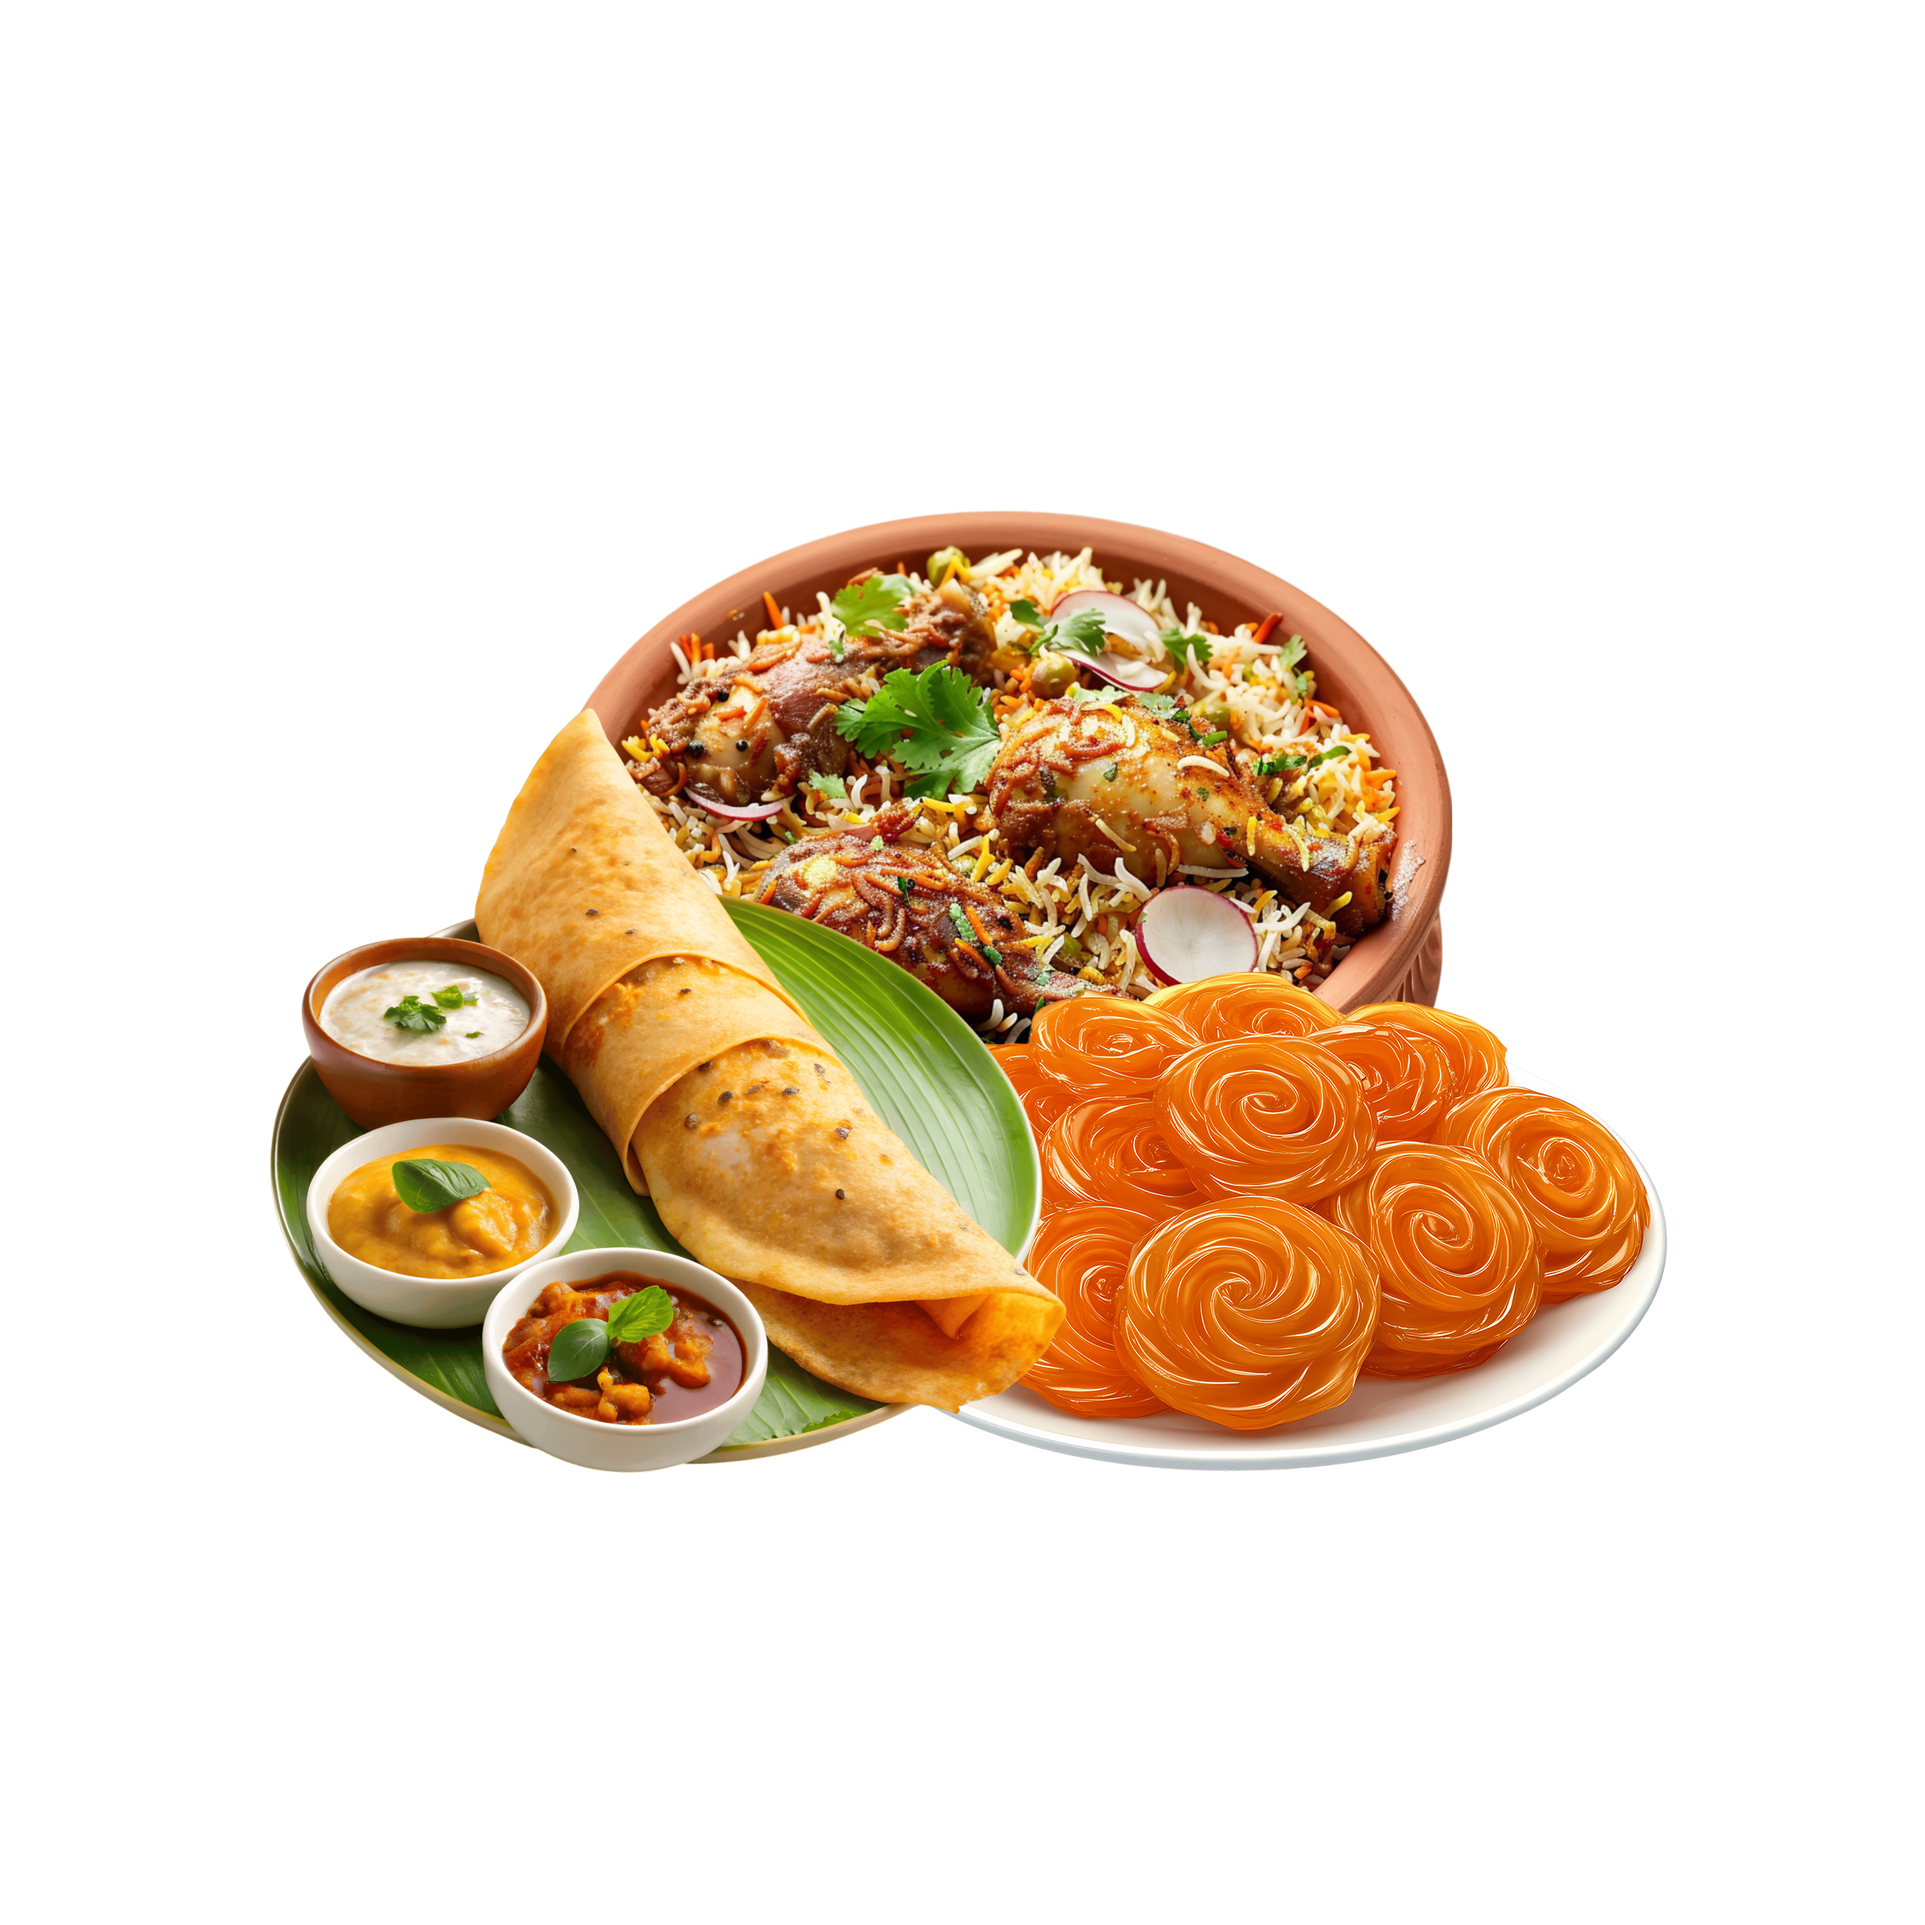
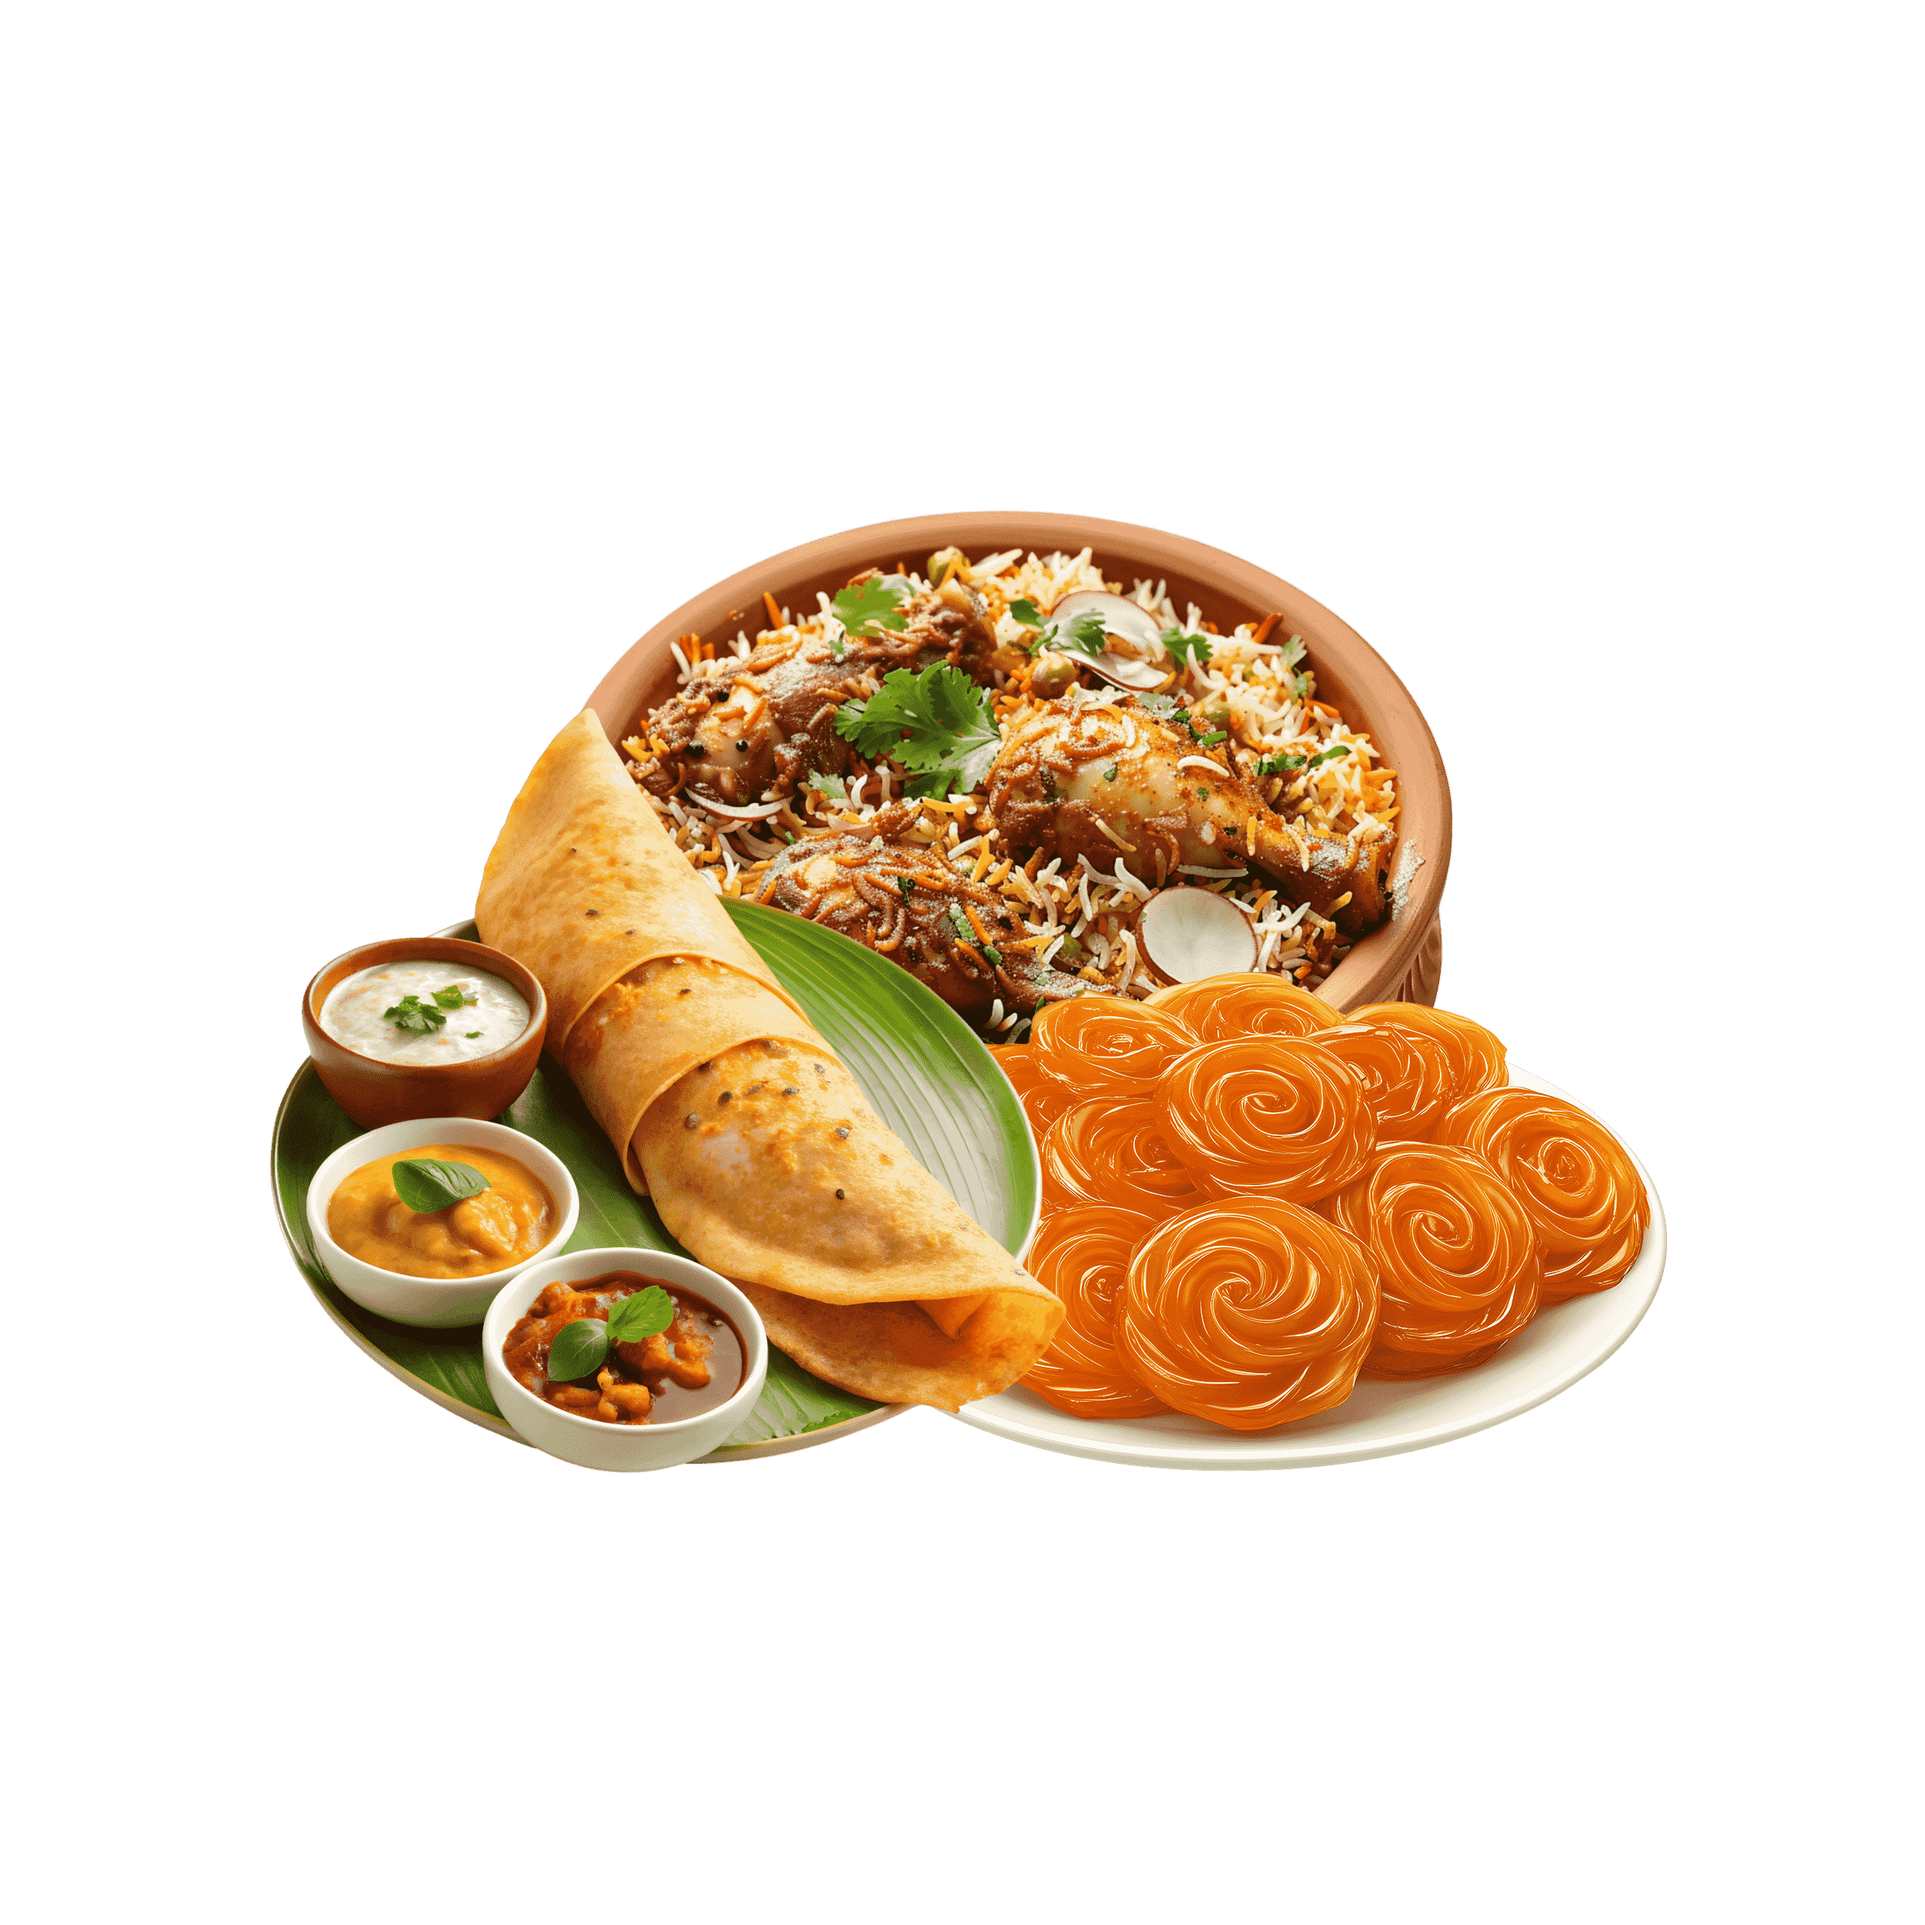
image udated

diff --git a/src/constant/index.js b/src/constant/index.js
@@ -276,6 +276,7 @@ export const nastaList = [
   {
     id: "5",
     dish: "आलू पराठा",
+    img: require("../../assets/images/aalu.png"),
     ingredients: [
       // आटा गूंथने के लिए
       { name: "गेहूं का आटा", quantity: "2 कप" },
@@ -332,6 +333,7 @@ export const nastaList = [
   {
     id: "6",
     dish: "छोले भटूरे",
+    img: require("../../assets/images/cholebhature.png"),
     ingredients: [
       // छोले के लिए
       { name: "काबुली चना (छोले)", quantity: "1 कप (रातभर भिगोए हुए)" },
@@ -412,6 +414,7 @@ export const nastaList = [
   {
     id: "7",
     dish: "थेपला",
+    img: require("../../assets/images/thepla.png"),
     ingredients: [
       { name: "गेहूं का आटा", quantity: "2 कप" },
       { name: "बेसन", quantity: "2 टेबल स्पून" },
@@ -467,6 +470,7 @@ export const nastaList = [
   {
     id: "8",
     dish: "कांदा-बटाटा",
+    img: require("../../assets/images/kanda.png"),
     ingredients: [
       { name: "पोहा (चिवड़ा)", quantity: "1.5 कप (मध्यम मोटाई वाला)" },
       { name: "तेल", quantity: "2 टेबल स्पून" },
@@ -532,6 +536,7 @@ export const nastaList = [
   {
     id: "9",
     dish: "खिचड़ी",
+    img: require("../../assets/images/khichri.png"),
     ingredients: [
       { name: "चावल", quantity: "1 कप" },
       { name: "मूंग दाल (छिलका या बिना छिलका)", quantity: "1/2 कप" },
@@ -600,6 +605,7 @@ export const nastaList = [
   {
     id: "10",
     dish: "ढोकला",
+    img: require("../../assets/images/dhokla.png"),
     ingredients: [
       // बेसिक सामग्री
       { name: "बेसन (चना आटा)", quantity: "1 कप" },
@@ -668,6 +674,7 @@ export const nastaList = [
   {
     id: "11",
     dish: "आलू पूरी",
+    img: require("../../assets/images/aalupuri.png"),
     ingredients: [
       // पूरी के लिए सामग्री
       { name: "गेहूं का आटा", quantity: "2 कप" },
@@ -734,6 +741,7 @@ export const nastaList = [
   {
     id: "12",
     dish: "मिसल पाव",
+    img: require("../../assets/images/miselpav.png"),
     ingredients: [
       // मिसल (उसळ) के लिए
       { name: "मटकी (मोटे अंकुरित मूंग)", quantity: "1 कप" },
@@ -808,6 +816,7 @@ export const nastaList = [
   {
     id: "13",
     dish: "ब्रेड पकोड़ा",
+    img: require("../../assets/images/breadpakoda.png"),
     ingredients: [
       // स्टफिंग के लिए (आलू मसाला)
       { name: "उबले हुए आलू", quantity: "3-4 मध्यम (मैश किए हुए)" },
@@ -871,6 +880,7 @@ export const nastaList = [
   {
     id: "14",
     dish: "लिट्टी चोखा",
+    img: require("../../assets/images/litti.png"),
     ingredients: [
       // लिट्टी के लिए
       { name: "गेहूं का आटा", quantity: "2 कप" },
@@ -1152,7 +1162,7 @@ export const mithaiList = [
   {
     id: "5",
     dish: " लड्डू ",
-    img: require("../../assets/images/laddu.avif"),
+    img: require("../../assets/images/laddu.png"),
     ingredients: [
       { name: "बेसन", quantity: "1 कप" },
       { name: "घी", quantity: "1/2 कप" },
@@ -1199,6 +1209,7 @@ export const mithaiList = [
   {
     id: "6",
     dish: "बर्फी",
+    img: require("../../assets/images/barphi.png"),
     ingredients: [
       { name: "मिल्क पाउडर", quantity: "2 कप" },
       { name: "दूध", quantity: "1 कप" },
@@ -1243,6 +1254,7 @@ export const mithaiList = [
   {
     id: "7",
     dish: "संदेश",
+    img: require("../../assets/images/sandesh.png"),
     ingredients: [
       { name: "फ्रेश छेना (पनीर)", quantity: "1 कप" },
       { name: "पिसी चीनी", quantity: "1/2 कप" },
@@ -1286,6 +1298,7 @@ export const mithaiList = [
   {
     id: "8",
     dish: "पेड़ा",
+    img: require("../../assets/images/peda.png"),
     ingredients: [
       { name: "मावा (खोया)", quantity: "1 कप" },
       { name: "पिसी चीनी", quantity: "1/2 कप" },
@@ -1330,6 +1343,7 @@ export const mithaiList = [
   {
     id: "9",
     dish: "मैसूर पाक",
+    img: require("../../assets/images/maisur.png"),
     ingredients: [
       { name: "बेसन (चने का आटा)", quantity: "1 कप" },
       { name: "घी", quantity: "1 कप (गर्म घी)" },
@@ -1378,6 +1392,7 @@ export const mithaiList = [
   {
     id: "10",
     dish: "मोदक",
+    img: require("../../assets/images/modak.png"),
     ingredients: [
       { name: "चावल का आटा", quantity: "1 कप" },
       { name: "पानी", quantity: "1 कप" },
@@ -1424,6 +1439,7 @@ export const mithaiList = [
   {
     id: "11",
     dish: "रबड़ी",
+    img: require("../../assets/images/labdi.png"),
     ingredients: [
       { name: "फुल क्रीम दूध", quantity: "1 लीटर" },
       { name: "चीनी", quantity: "4-5 टेबल स्पून (स्वादानुसार)" },
@@ -1468,6 +1484,7 @@ export const mithaiList = [
   {
     id: "12",
     dish: "मालपुआ",
+    img: require("../../assets/images/malpuwa.png"),
     ingredients: [
       { name: "मैदा (सफेद आटा)", quantity: "1 कप" },
       { name: "सूजी (रवा)", quantity: "1/4 कप" },
@@ -1517,6 +1534,7 @@ export const mithaiList = [
   {
     id: "13",
     dish: "पीठा",
+    img: require("../../assets/images/pitha.png"),
     ingredients: [
       { name: "चावल का आटा", quantity: "1 कप" },
       { name: "गुड़", quantity: "1/2 कप (कद्दूकस किया हुआ)" },
@@ -1561,6 +1579,7 @@ export const mithaiList = [
   {
     id: "14",
     dish: "घेवर",
+    img: require("../../assets/images/ghebra.png"),
     ingredients: [
       { name: "मैदा", quantity: "1 कप" },
       { name: "घी", quantity: "1/4 कप (पिघला हुआ)" },
@@ -1616,6 +1635,7 @@ export const mithaiList = [
   {
     id: "15",
     dish: "हलवा",
+    img: require("../../assets/images/halba.png"),
     ingredients: [
       { name: "सूजी (रवा)", quantity: "1 कप" },
       { name: "घी", quantity: "1/2 कप" },
